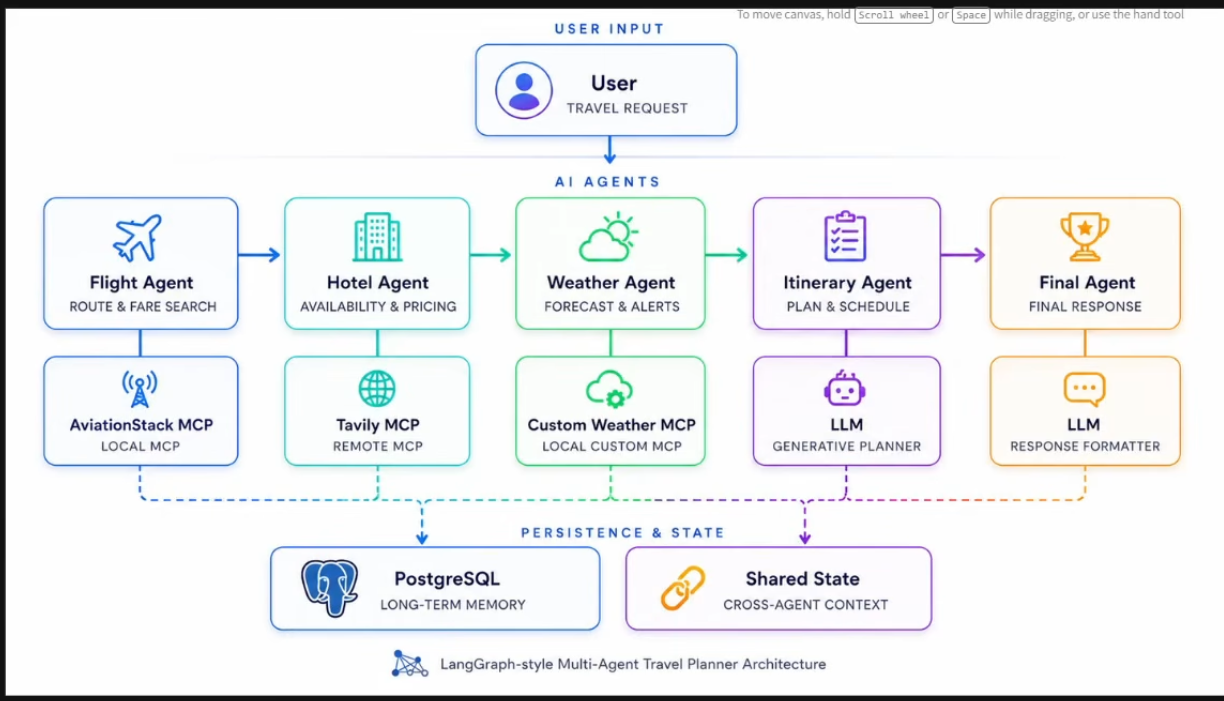
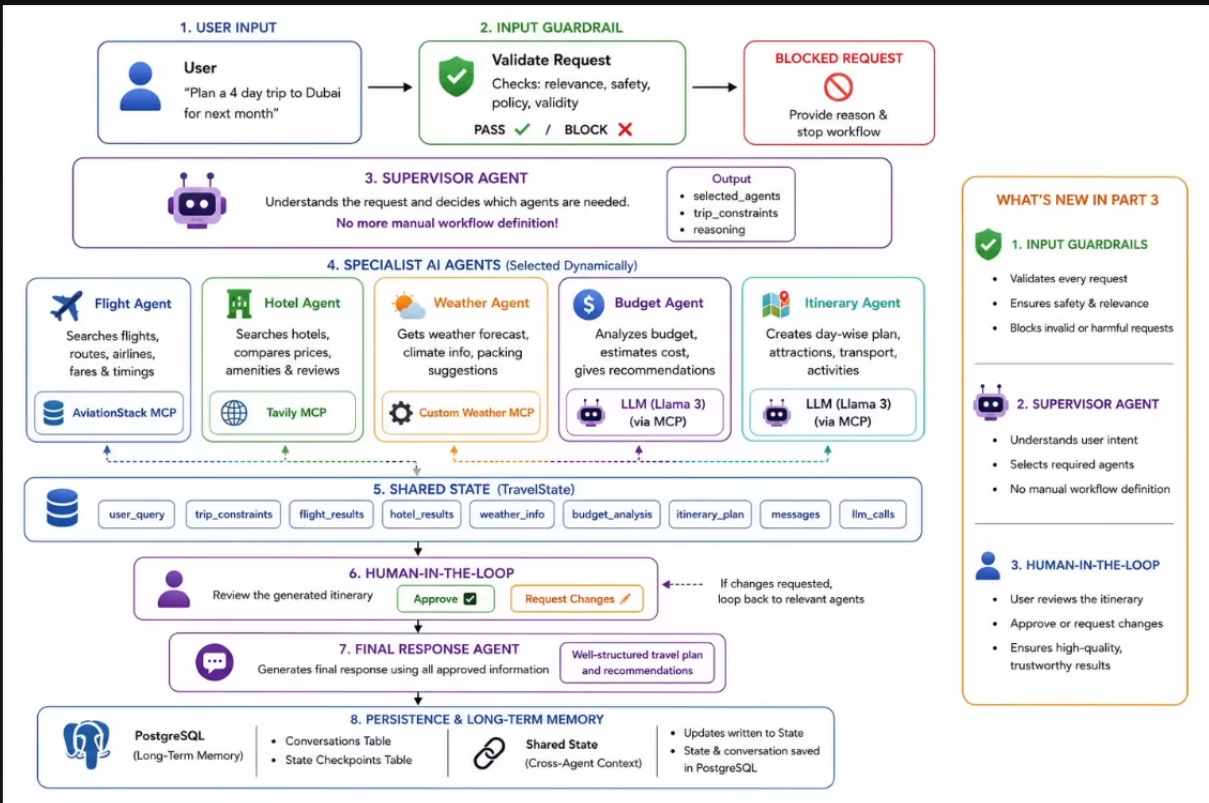
Rename application to Voyagent AI across codebase and documentation

Changed region(s): [[0.0, 0.0, 1.0, 1.0], [0.7957, 0.8688, 0.9793, 0.8987]]

diff --git a/templates/index.html b/templates/index.html
@@ -3,7 +3,7 @@
 <head>
     <meta charset="UTF-8">
     <meta name="viewport" content="width=device-width, initial-scale=1.0">
-    <title>TripMate AI — Autonomous Multi-Agent Travel Planner</title>
+    <title>Voyagent AI — Autonomous Multi-Agent Travel Planner</title>
     <link rel="preconnect" href="https://fonts.googleapis.com">
     <link rel="preconnect" href="https://fonts.gstatic.com" crossorigin>
     <link href="https://fonts.googleapis.com/css2?family=Plus+Jakarta+Sans:wght@400;500;600;700;800&family=JetBrains+Mono:wght@400;500;600&display=swap" rel="stylesheet">
@@ -29,7 +29,7 @@
             <div class="logo-group">
                 <div class="logo-icon">✈</div>
                 <div class="logo-text">
-                    <span class="logo-title">TripMate <span class="gradient-text">AI</span></span>
+                    <span class="logo-title">Voyagent <span class="gradient-text">AI</span></span>
                     <span class="logo-badge">LangGraph + Multi-Server MCP</span>
                 </div>
             </div>
@@ -73,7 +73,7 @@
             </h1>
 
             <p>
-                TripMate coordinates specialized agents over Model Context Protocol (MCP) for real-time flight routes, hotel discovery, live weather forecasting, and personalized itineraries with database persistence.
+                Voyagent coordinates specialized agents over Model Context Protocol (MCP) for real-time flight routes, hotel discovery, live weather forecasting, and personalized itineraries with database persistence.
             </p>
         </section>
 
@@ -214,7 +214,7 @@
             <!-- PDF Printable Container -->
             <div id="pdfContent" class="pdf-content">
                 <div class="pdf-header-print">
-                    <div class="pdf-logo">✈ TripMate AI Travel Planner</div>
+                    <div class="pdf-logo">✈ Voyagent AI Travel Planner</div>
                     <div class="pdf-meta" id="pdfMetaDate"></div>
                 </div>
                 <div id="resultBox" class="result-box"></div>

diff --git a/static/script.js b/static/script.js
@@ -1,5 +1,5 @@
 /**
- * TripMate AI - Frontend Client Controller
+ * Voyagent AI - Frontend Client Controller
  * Handles session state, auto-restoration of previous plans from Postgres,
  * multi-agent progress animations, Markdown parsing, and Trip History Drawer.
  */
@@ -537,7 +537,7 @@ function downloadPDF() {
 
     const options = {
         margin: [0.4, 0.5, 0.4, 0.5],
-        filename: `TripMate-Plan-${new Date().toISOString().slice(0, 10)}.pdf`,
+        filename: `Voyagent-Plan-${new Date().toISOString().slice(0, 10)}.pdf`,
         image: {
             type: "jpeg",
             quality: 0.98,

diff --git a/static/style.css b/static/style.css
@@ -1,5 +1,5 @@
 /* ==============================================================================
-   TripMate AI - Modern Glassmorphism & High-Performance Design System
+   Voyagent AI - Modern Glassmorphism & High-Performance Design System
    ============================================================================== */
 
 :root {

diff --git a/app.py b/app.py
@@ -1,7 +1,7 @@
 """
-TripMate AI - FastAPI Web Server
+Voyagent AI - FastAPI Web Server
 =================================
-This module acts as the HTTP interface for TripMate. It serves the Jinja2 HTML/CSS frontend
+This module acts as the HTTP interface for Voyagent. It serves the Jinja2 HTML/CSS frontend
 and exposes REST API endpoints that connect frontend requests to the LangGraph multi-agent backend.
 """
 
@@ -26,7 +26,7 @@ BASE_DIR = Path(__file__).resolve().parent
 # ==============================================================================
 
 app = FastAPI(
-    title="TripMate AI",
+    title="Voyagent AI",
     description="LangGraph Multi-Agent Travel Planner with FastAPI Frontend",
     version="1.0.0"
 )

diff --git a/README.md b/README.md
@@ -1,4 +1,4 @@
-# TripMate AI: Multi-Agent Travel Planner
+# Voyagent AI: Multi-Agent Travel Planner
 
 Live Deployment: [https://tripmate-ai-546l.onrender.com/](https://tripmate-ai-546l.onrender.com/)
 
@@ -6,7 +6,7 @@ Live Deployment: [https://tripmate-ai-546l.onrender.com/](https://tripmate-ai-54
 
 ## Overview
 
-TripMate AI is an autonomous, multi-agent travel planning system built with LangGraph, Model Context Protocol (MCP), FastAPI, and PostgreSQL. It transforms natural language travel requests into structured itineraries by coordinating specialized AI agents. Each agent handles a distinct stage of travel planning—including flight route discovery, accommodation research, local weather analysis, activity scheduling, and synthesis—while persisting state and conversation checkpoints to a PostgreSQL database.
+Voyagent AI is an autonomous, multi-agent travel planning system built with LangGraph, Model Context Protocol (MCP), FastAPI, and PostgreSQL. It transforms natural language travel requests into structured itineraries by coordinating specialized AI agents. Each agent handles a distinct stage of travel planning—including flight route discovery, accommodation research, local weather analysis, activity scheduling, and synthesis—while persisting state and conversation checkpoints to a PostgreSQL database.
 
 ---
 
@@ -134,7 +134,7 @@ class TravelState(TypedDict):
 ## Repository Structure
 
 ```text
-TripMate/
+Voyagent/
 ├── app.py                         # FastAPI application, routes, and exception handlers
 ├── backend.py                     # LangGraph graph definition, state schema, and agents
 ├── mcp_client.py                  # Multi-server MCP client (Tavily HTTP + AviationStack stdio + Weather stdio)
@@ -197,7 +197,7 @@ DATABASE_URL=postgresql://user:password@host/dbname?sslmode=require
 # Optional LangSmith Tracing
 LANGSMITH_TRACING=false
 LANGSMITH_API_KEY=
-LANGSMITH_PROJECT=tripmate-ai
+LANGSMITH_PROJECT=voyagent-ai
 ```
 
 ### 5. Run the Application
@@ -213,12 +213,12 @@ The application will be accessible at `http://127.0.0.1:8000`.
 
 ### 1. Build the Docker Image
 ```bash
-docker build -t tripmate-ai .
+docker build -t voyagent-ai .
 ```
 
 ### 2. Run the Container
 ```bash
-docker run -d -p 8000:8000 --env-file .env --name tripmate-app tripmate-ai
+docker run -d -p 8000:8000 --env-file .env --name voyagent-app voyagent-ai
 ```
 
 ---
